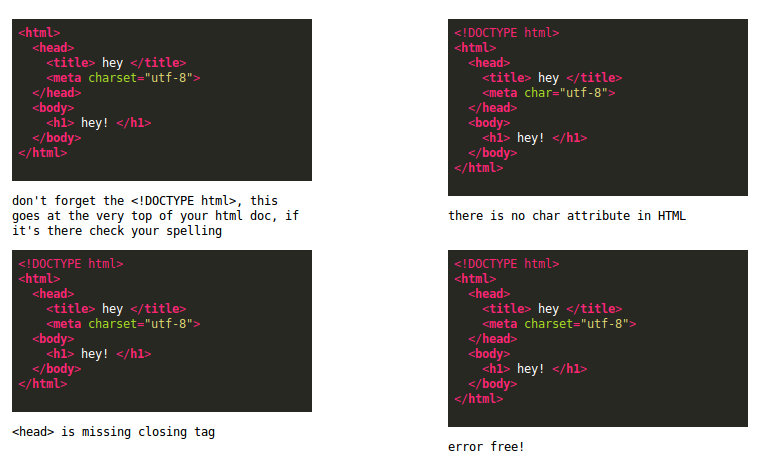
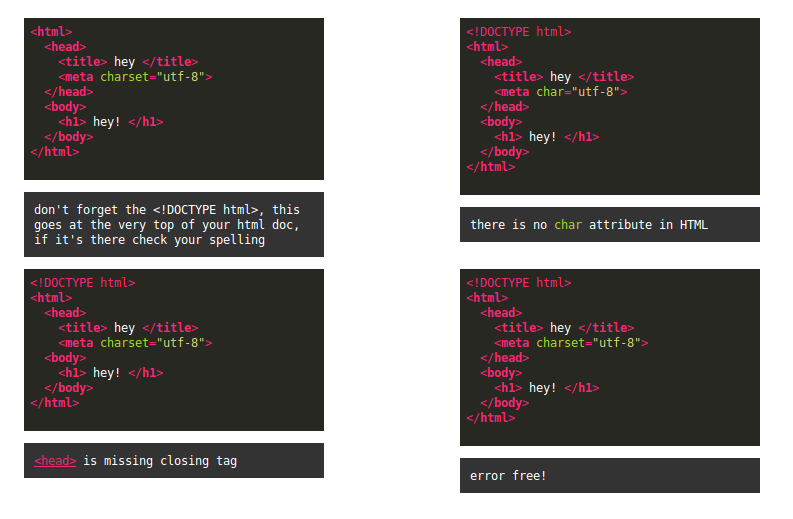
ignored node_modules, updated readme && example

Changed region(s): [[0.0, 0.0296, 0.4231, 0.9471], [0.5742, 0.5032, 0.9974, 0.9767], [0.5742, 0.0296, 0.9974, 0.4736]]

diff --git a/example/index.html b/example/index.html
@@ -15,6 +15,12 @@
 				width: 300px;
 				font-family: monospace;
 			}
+			section > div > div { 
+				background: #333;
+				color: #fff;
+				padding: 10px;
+				width:280px;
+			}
 
 			/*highlight overrides*/
 			.hljs { background: #272822; color:#fff;  }
@@ -116,9 +122,12 @@
 				
 				var err = html.lint( htmlString ); // ......................... USE lint() METHOD 
 				// ............................................................ pass code string >> returns err object
+				// err.message 	// plain text error message
+				// err.html 	// html formatted error message
+				// err.code 	// the html string starting from the point where the error was found
 
-				if( !err.message ) output.textContent = "error free!";
-				else output.textContent = err.message;
+				if( !err.html ) output.innerHTML = "error free!";
+				else output.innerHTML = err.html;
 			}
 
 

diff --git a/README.md b/README.md
@@ -1,5 +1,5 @@
 # html-friendly-linter
- this a kludgey quick+dirty html linter i wrote for various intro to html edu purposes ( class websites, demos, other tools ) specifically designed w/friendly errors for beginners to encourage best practices when writing HTML code. it's what i use in my [WWWEditor](https://github.com/nbriz/WWWEditor). the info the html-elements-dictionary is scrapped from the [Mozilla Developer Network](https://developer.mozilla.org/en-US/docs/Web/HTML/Element) && html-attributes-dictionary is scrapped from both the [Mozilla Developer Network](https://developer.mozilla.org/en-US/docs/Web/HTML/Attributes#Attribute_list) + [w3schools](http://www.w3schools.com/tags/ref_attributes.asp)
+ this a kludgey quick+dirty html linter i wrote for various intro to html edu purposes ( class websites, demos, other tools ) specifically designed w/friendly errors for beginners to encourage best practices when writing HTML code. it's what i use in my [WWWEditor](https://github.com/nbriz/WWWEditor). the info in the html-elements-dictionary is scrapped from the [Mozilla Developer Network](https://developer.mozilla.org/en-US/docs/Web/HTML/Element) && html-attributes-dictionary is scrapped from both the [Mozilla Developer Network](https://developer.mozilla.org/en-US/docs/Web/HTML/Attributes#Attribute_list) + [w3schools](http://www.w3schools.com/tags/ref_attributes.asp)
 
 # what it's doing
 
@@ -7,15 +7,15 @@
 * checks that tags are closed ( if they're meant to be )
 * checks for renegade closing tags ( ie. closing tags w/out openers )
 * checks that singleton's don't have closing tags 
-* checks for parsing errors caused by spaces in tags (ie. < h1> )
-* checks for parsing errors caused by missing end-tags (ie. </p > or </p ... )
-* checks for parsing errors caused by missing closing > in start-tags (ie <p ... )
+* checks for parsing errors caused by spaces in tags (ie. `< h1>` )
+* checks for parsing errors caused by missing end-tags (ie. `</p > or </p ...` )
+* checks for parsing errors caused by missing closing > in start-tags (ie `<p ...` )
 * checks that attribute exist && is applicable to that tag
 * checks that existing attributes are formatted properly
 * checks that attribute isn't depreciated
 * checks that doctype is right
-* checks for consistency in usage of <br> vs <br/>
-* checks for consistency <DIV> vs <div> 
+* checks for consistency in usage of `<br>` vs `<br/>`
+* checks for consistency `<DIV>` vs `<div>` 
 
 # example use
 
@@ -23,23 +23,27 @@
 
  there's an example folder w/an example page in there. but here's the lowdown:
 
-		// create linter object	
-		var html = new HTMLFriendlyLinter();
-		// pass lint method a string of html code
-		// returns an object with error messages
-		var errObj = html.lint( htmlString );
+```javascript
+// create linter object	
+var html = new HTMLFriendlyLinter();
+// pass lint method a string of html code
+// returns an object with error messages
+var errObj = html.lint( htmlString );
+```
 
  if there's an error the 'errObj' returned above will look something like this:
 
- 		{
- 			message: "<head> is missing closing tag",
+```javascript
+{
+	message: "<head> is missing closing tag",
 
- 			html: "<a style="color:#F92672;" href="https://developer.mozilla.org/en-US/docs/Web/HTML/Element/head" title="The HTML <head> element provides general information (metadata) about the document, including its title and links to its&nbsp;scripts and style sheets." target="_blank">&lt;head&gt;</a> is missing closing tag",
- 			
- 			code: "<head>    <title> hey </title>    <meta charset="utf-8">  <body>    <h1> hey! </h1>  </body></html>"
- 		}
+	html: "<a style="color:#F92672;" href="https://developer.mozilla.org/en-US/docs/Web/HTML/Element/head" title="The HTML <head> element provides general information (metadata) about the document, including its title and links to its&nbsp;scripts and style sheets." target="_blank">&lt;head&gt;</a> is missing closing tag",
+	
+	code: "<head>    <title> hey </title>    <meta charset="utf-8">  <body>    <h1> hey! </h1>  </body></html>"
+}
+```
 
- where 'message' is the error message, 'html' is the error message formatted in html && 'code' is the html string that was passed into the linter starting at the part where it found the error
+ where 'message' is the plain text error message, 'html' is the error message formatted in html ( w/links to reference pages ) && 'code' is the html string that was passed into the linter starting at the point where it found the error
 
 
 
